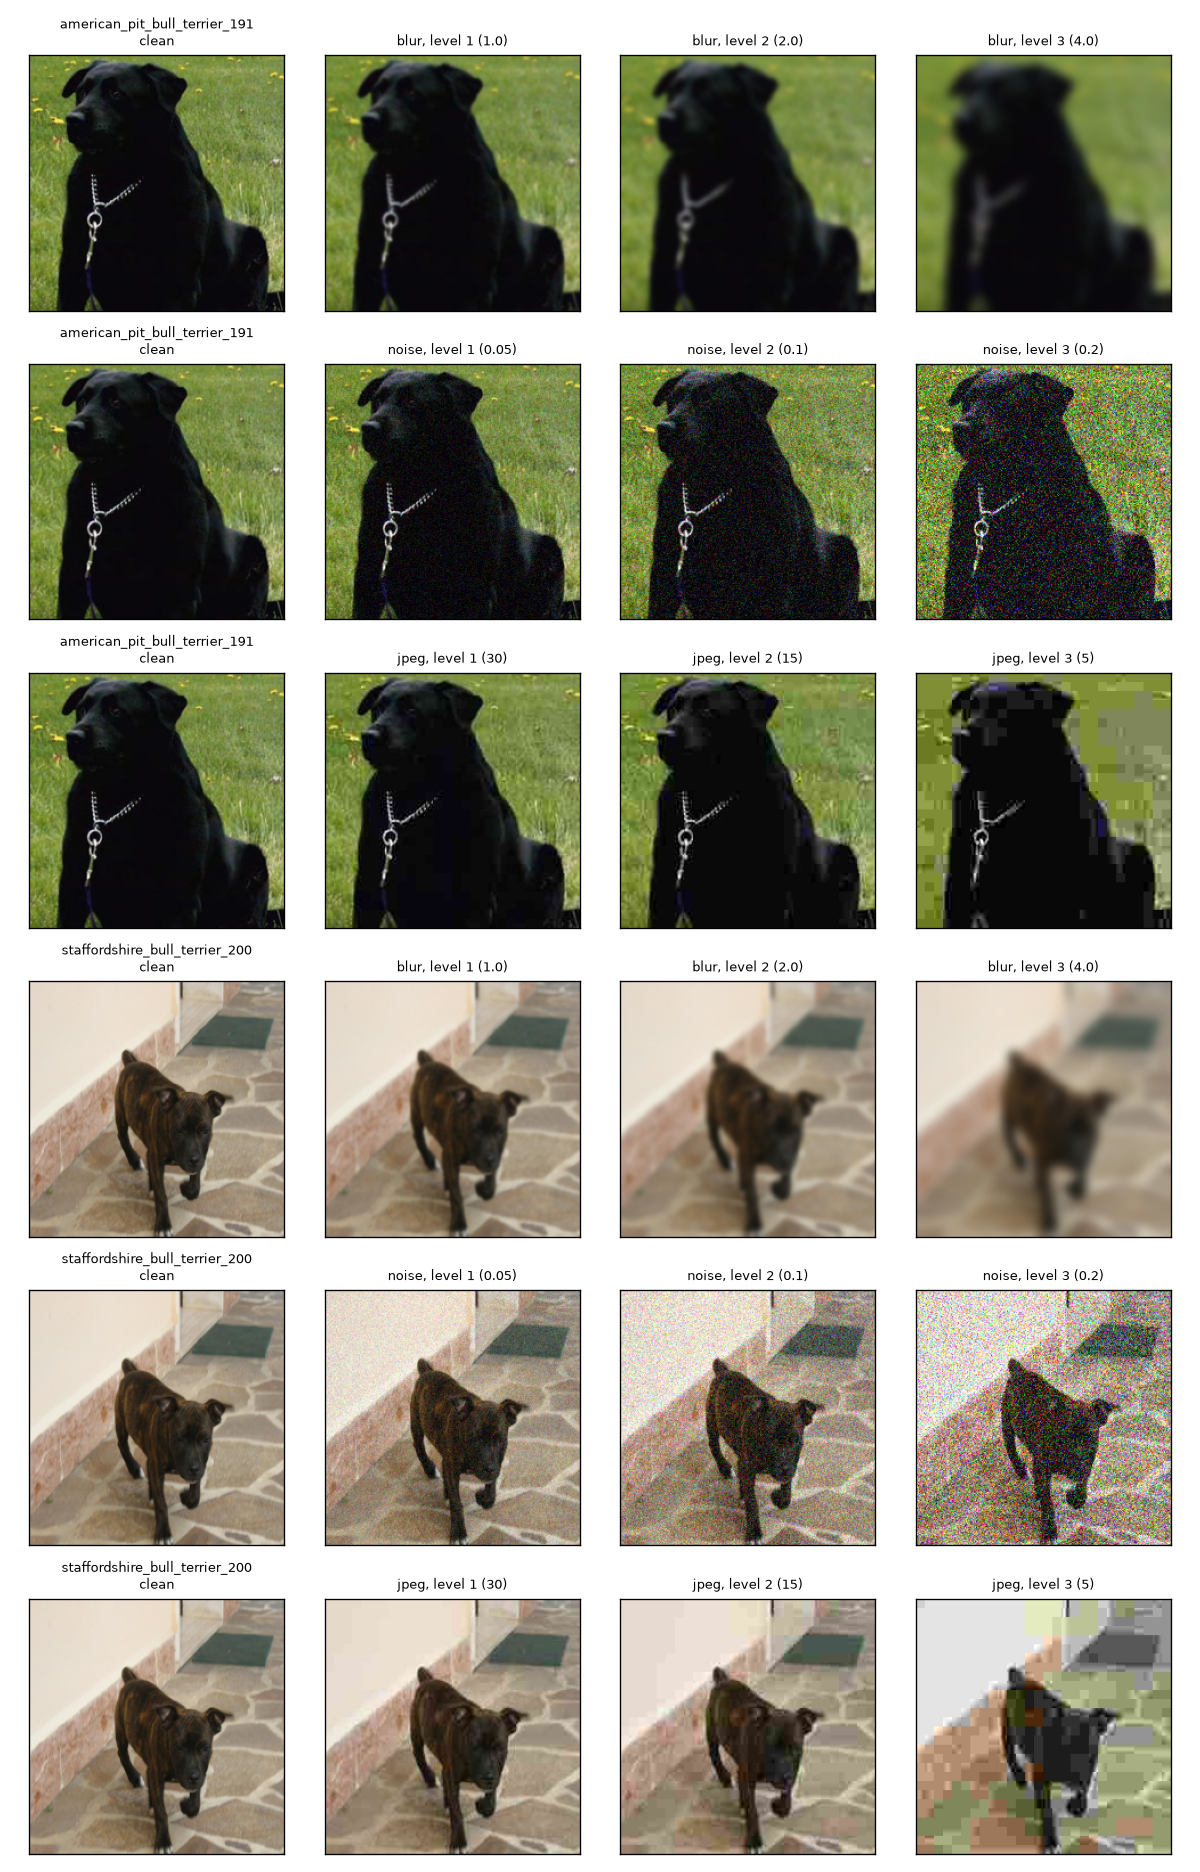
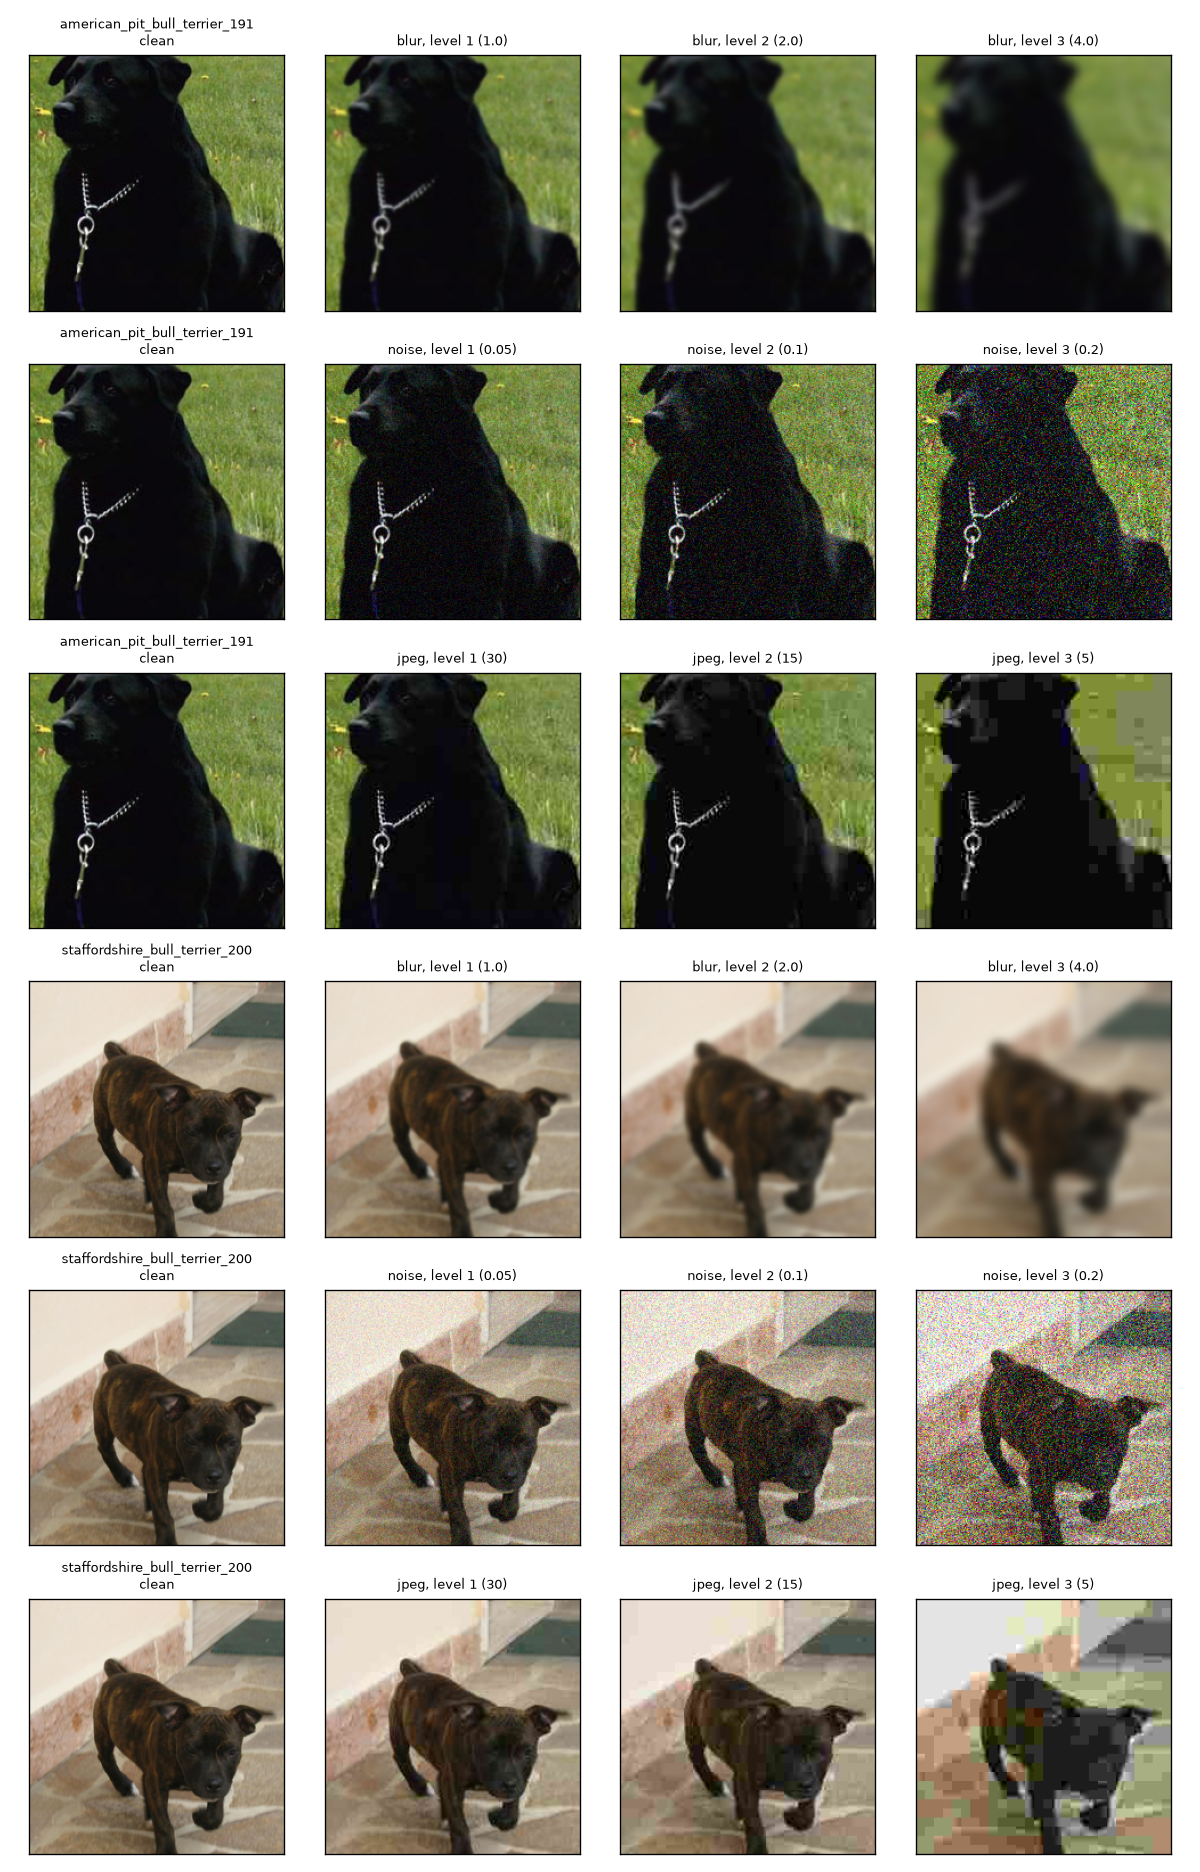
Add pretrained ResNet-18 + MLP head; crop instead of squash in load_image

diff --git a/src/pretrained.py b/src/pretrained.py
@@ -1,0 +1,330 @@
+"""Frozen pretrained ResNet-18 features + a small MLP classifier head.
+
+Step 1 - feature extraction (slow part, done once and cached):
+    Every image goes through ResNet-18 pretrained on ImageNet, with the final
+    classification layer removed. The output is a 512-number feature vector
+    per image. The ResNet weights are never changed ("frozen"). Features are
+    extracted for train, val, and the clean + 9 corrupted versions of test.
+
+Step 2 - MLP head (fast part):
+    A small neural network (512 -> hidden -> 37) is trained on the clean train
+    features with cross-entropy loss and the Adam optimiser. The settings are
+    chosen on the validation set, and the epoch with the best validation
+    accuracy is kept. This is repeated for several seeds.
+
+Step 3 - evaluation:
+    Each trained head is evaluated once on the clean test set and on all 9
+    corrupted test sets, so the drop in accuracy can be compared with the
+    other models.
+
+All images are loaded through corruptions.load_image(), so this model sees
+exactly the same clean and corrupted pixels as the other models.
+
+Usage (from the repo root):
+    python src/pretrained.py
+
+Output:
+    data/features/*.pt                       cached features (ignored by git)
+    results/pretrained/seed42/metrics.json   config, validation grid, test metrics
+    results/pretrained/seed42/predictions.csv  test predictions for every condition
+    results/pretrained/summary.json          mean and std over seeds, per condition
+"""
+
+import argparse
+import csv
+import json
+import random
+import time
+from pathlib import Path
+
+import numpy as np
+import torch
+import torch.nn as nn
+from sklearn.metrics import f1_score
+from torch.utils.data import DataLoader, Dataset
+from torchvision import models, transforms
+
+from corruptions import CONDITIONS, condition_name, load_image
+
+NUM_CLASSES = 37
+# ImageNet statistics: the pretrained ResNet expects inputs normalised this way
+MEAN = [0.485, 0.456, 0.406]
+STD = [0.229, 0.224, 0.225]
+
+
+def set_seed(seed):
+    random.seed(seed)
+    np.random.seed(seed)
+    torch.manual_seed(seed)
+
+
+def read_split(path):
+    with open(path) as f:
+        return list(csv.DictReader(f))
+
+
+# ---------------------------------------------------------------------------
+# Step 1: feature extraction
+# ---------------------------------------------------------------------------
+
+class PetsImages(Dataset):
+    """Returns (normalised 224x224 image tensor, label) for one condition."""
+
+    def __init__(self, rows, image_dir, kind, level):
+        self.rows, self.image_dir = rows, Path(image_dir)
+        self.kind, self.level = kind, level
+        self.to_tensor = transforms.Compose([
+            transforms.ToTensor(),
+            transforms.Normalize(MEAN, STD),
+        ])
+
+    def __len__(self):
+        return len(self.rows)
+
+    def __getitem__(self, i):
+        r = self.rows[i]
+        img = load_image(self.image_dir / f"{r['image']}.jpg", self.kind, self.level)
+        return self.to_tensor(img), int(r["label"])
+
+
+def build_encoder(device):
+    """ResNet-18 pretrained on ImageNet, with the last layer removed."""
+    encoder = models.resnet18(weights=models.ResNet18_Weights.IMAGENET1K_V1)
+    encoder.fc = nn.Identity()  # output the 512 features instead of 1000 classes
+    encoder.eval()              # frozen: batch norm uses its stored statistics
+    for p in encoder.parameters():
+        p.requires_grad = False
+    return encoder.to(device)
+
+
+@torch.no_grad()
+def extract(encoder, rows, image_dir, kind, level, device, args):
+    loader = DataLoader(PetsImages(rows, image_dir, kind, level),
+                        batch_size=args.batch_size, shuffle=False,
+                        num_workers=args.workers)
+    feats, labels = [], []
+    for x, y in loader:
+        feats.append(encoder(x.to(device)).cpu())
+        labels.append(y)
+    return torch.cat(feats), torch.cat(labels)
+
+
+def get_features(name, rows, kind, level, encoder_holder, device, args):
+    """Load cached features if they exist, otherwise extract and cache them."""
+    path = Path(args.feature_dir) / f"resnet18_{name}.pt"
+    if path.exists():
+        data = torch.load(path)
+        return data["x"], data["y"]
+    if encoder_holder["model"] is None:
+        encoder_holder["model"] = build_encoder(device)
+    image_dir = Path(args.data_root) / "oxford-iiit-pet" / "images"
+    start = time.time()
+    x, y = extract(encoder_holder["model"], rows, image_dir, kind, level, device, args)
+    path.parent.mkdir(parents=True, exist_ok=True)
+    torch.save({"x": x, "y": y}, path)
+    print(f"  extracted {name:14s} {len(y):5d} images in {time.time() - start:6.1f} s")
+    return x, y
+
+
+# ---------------------------------------------------------------------------
+# Step 2: MLP head
+# ---------------------------------------------------------------------------
+
+class MLPHead(nn.Module):
+    """512 features -> hidden layer with ReLU and dropout -> 37 class scores."""
+
+    def __init__(self, in_dim, hidden, dropout):
+        super().__init__()
+        self.net = nn.Sequential(
+            nn.Linear(in_dim, hidden),
+            nn.ReLU(),
+            nn.Dropout(dropout),
+            nn.Linear(hidden, NUM_CLASSES),
+        )
+
+    def forward(self, x):
+        return self.net(x)  # raw scores (logits); softmax is inside the loss
+
+
+@torch.no_grad()
+def predict(model, x):
+    model.eval()
+    return model(x).argmax(1)
+
+
+def train_head(x_tr, y_tr, x_va, y_va, hidden, weight_decay, seed, args):
+    """Train one head; return the weights from the best validation epoch."""
+    set_seed(seed)
+    model = MLPHead(x_tr.shape[1], hidden, args.dropout)
+    optimizer = torch.optim.Adam(model.parameters(), lr=args.lr,
+                                 weight_decay=weight_decay)
+    loss_fn = nn.CrossEntropyLoss()
+    g = torch.Generator().manual_seed(seed)
+
+    history, best_val, best_epoch, best_state = [], -1.0, 0, None
+    for epoch in range(1, args.epochs + 1):
+        model.train()
+        order = torch.randperm(len(y_tr), generator=g)
+        total_loss = 0.0
+        for i in range(0, len(order), args.head_batch_size):
+            idx = order[i:i + args.head_batch_size]
+            loss = loss_fn(model(x_tr[idx]), y_tr[idx])
+            optimizer.zero_grad()
+            loss.backward()
+            optimizer.step()
+            total_loss += loss.item() * len(idx)
+        train_acc = float((predict(model, x_tr) == y_tr).float().mean())
+        val_acc = float((predict(model, x_va) == y_va).float().mean())
+        history.append({"epoch": epoch, "train_loss": total_loss / len(y_tr),
+                        "train_acc": train_acc, "val_acc": val_acc})
+        if val_acc > best_val:  # keep the weights from the best validation epoch
+            best_val, best_epoch = val_acc, epoch
+            best_state = {k: v.clone() for k, v in model.state_dict().items()}
+
+    model.load_state_dict(best_state)
+    return model, best_val, best_epoch, history
+
+
+# ---------------------------------------------------------------------------
+# Main
+# ---------------------------------------------------------------------------
+
+def main():
+    parser = argparse.ArgumentParser()
+    parser.add_argument("--data-root", default="data")
+    parser.add_argument("--splits", default="splits")
+    parser.add_argument("--feature-dir", default="data/features")
+    parser.add_argument("--batch-size", type=int, default=64, help="for feature extraction")
+    parser.add_argument("--workers", type=int, default=2)
+    parser.add_argument("--hidden", type=int, nargs="+", default=[256, 512])
+    parser.add_argument("--weight-decay", type=float, nargs="+", default=[1e-4, 1e-3])
+    parser.add_argument("--dropout", type=float, default=0.3)
+    parser.add_argument("--lr", type=float, default=1e-3)
+    parser.add_argument("--epochs", type=int, default=100)
+    parser.add_argument("--head-batch-size", type=int, default=128)
+    parser.add_argument("--seeds", type=int, nargs="+", default=[42, 43, 44])
+    parser.add_argument("--out-dir", default="results/pretrained")
+    args = parser.parse_args()
+
+    device = torch.device("cuda" if torch.cuda.is_available() else "cpu")
+    device_name = torch.cuda.get_device_name(0) if device.type == "cuda" else "CPU"
+    print(f"Device: {device_name}")
+    splits = Path(args.splits)
+    rows = {s: read_split(splits / f"{s}.csv") for s in ("train", "val", "test")}
+
+    # --- Step 1: features (cached after the first run) ---
+    print("Feature extraction (cached files are reused):")
+    start = time.time()
+    holder = {"model": None}
+    x_tr, y_tr = get_features("train", rows["train"], "clean", 0, holder, device, args)
+    x_va, y_va = get_features("val", rows["val"], "clean", 0, holder, device, args)
+    test = {}
+    for kind, level in CONDITIONS:
+        name = condition_name(kind, level)
+        test[name] = get_features(f"test_{name}", rows["test"], kind, level,
+                                  holder, device, args)
+    extract_minutes = (time.time() - start) / 60
+
+    # Standardise features with statistics from the training set only
+    mean, std = x_tr.mean(0), x_tr.std(0) + 1e-6
+    x_tr, x_va = (x_tr - mean) / std, (x_va - mean) / std
+    test = {k: ((x - mean) / std, y) for k, (x, y) in test.items()}
+
+    # --- Step 2a: choose hidden size and weight decay on validation ---
+    print("\nValidation grid (seed {}):".format(args.seeds[0]))
+    grid, best = [], None
+    for hidden in args.hidden:
+        for wd in args.weight_decay:
+            _, val_acc, epoch, _ = train_head(x_tr, y_tr, x_va, y_va, hidden, wd,
+                                              args.seeds[0], args)
+            grid.append({"hidden": hidden, "weight_decay": wd,
+                         "val_acc": val_acc, "best_epoch": epoch})
+            print(f"  hidden={hidden:4d}  weight_decay={wd:<7}  "
+                  f"val_acc={val_acc:.4f}  (best epoch {epoch})")
+            if best is None or val_acc > best["val_acc"]:
+                best = grid[-1]
+    print(f"Selected: hidden={best['hidden']}, weight_decay={best['weight_decay']}")
+
+    # --- Step 2b + 3: train one head per seed, evaluate on every test condition ---
+    breeds = {int(r["label"]): r["breed"] for r in rows["test"]}
+    per_seed = {}
+    for seed in args.seeds:
+        start = time.time()
+        model, val_acc, best_epoch, history = train_head(
+            x_tr, y_tr, x_va, y_va, best["hidden"], best["weight_decay"], seed, args)
+        train_seconds = time.time() - start
+
+        results, all_preds = {}, {}
+        for name, (x, y) in test.items():
+            pred = predict(model, x)
+            y_np, p_np = y.numpy(), pred.numpy()
+            results[name] = {
+                "accuracy": float((p_np == y_np).mean()),
+                "macro_f1": float(f1_score(y_np, p_np, average="macro")),
+                "per_class_accuracy": {breeds[c]: float((p_np[y_np == c] == c).mean())
+                                       for c in sorted(breeds)},
+            }
+            all_preds[name] = p_np
+        clean_acc = results["clean"]["accuracy"]
+        for name in results:
+            acc = results[name]["accuracy"]
+            results[name]["absolute_drop"] = clean_acc - acc
+            results[name]["relative_drop"] = (clean_acc - acc) / clean_acc
+
+        print(f"\nSeed {seed}: best epoch {best_epoch}, val_acc={val_acc:.4f}")
+        for name in test:
+            r = results[name]
+            print(f"  {name:8s} acc={r['accuracy']:.4f}  "
+                  f"relative drop={r['relative_drop']:6.1%}")
+
+        out = Path(args.out_dir) / f"seed{seed}"
+        out.mkdir(parents=True, exist_ok=True)
+        with open(out / "history.csv", "w", newline="") as f:
+            writer = csv.DictWriter(f, fieldnames=history[0].keys())
+            writer.writeheader()
+            writer.writerows(history)
+        with open(out / "metrics.json", "w") as f:
+            json.dump({
+                "config": {**vars(args), "seed": seed},
+                "device": device_name,
+                "feature_extraction_minutes": round(extract_minutes, 1),
+                "head_train_seconds": round(train_seconds, 1),
+                "validation_grid": grid,
+                "selected": {"hidden": best["hidden"],
+                             "weight_decay": best["weight_decay"]},
+                "best_epoch": best_epoch,
+                "best_val_acc": val_acc,
+                "test": {"accuracy": results["clean"]["accuracy"],
+                         "macro_f1": results["clean"]["macro_f1"]},
+                "test_conditions": results,
+            }, f, indent=2)
+        with open(out / "predictions.csv", "w", newline="") as f:
+            writer = csv.writer(f)
+            writer.writerow(["condition", "image", "label", "pred", "correct"])
+            for name, p_np in all_preds.items():
+                for r, p in zip(rows["test"], p_np):
+                    writer.writerow([name, r["image"], r["label"], int(p),
+                                     int(r["label"]) == int(p)])
+        per_seed[seed] = results
+
+    # --- Summary over seeds: mean and standard deviation per condition ---
+    summary = {}
+    for name in test:
+        accs = [per_seed[s][name]["accuracy"] for s in args.seeds]
+        rel = [per_seed[s][name]["relative_drop"] for s in args.seeds]
+        summary[name] = {"accuracy_mean": float(np.mean(accs)),
+                         "accuracy_std": float(np.std(accs)),
+                         "relative_drop_mean": float(np.mean(rel)),
+                         "relative_drop_std": float(np.std(rel))}
+    with open(Path(args.out_dir) / "summary.json", "w") as f:
+        json.dump({"seeds": args.seeds, "conditions": summary}, f, indent=2)
+
+    print(f"\nMean over seeds {args.seeds}:")
+    for name, s in summary.items():
+        print(f"  {name:8s} acc={s['accuracy_mean']:.4f} +/- {s['accuracy_std']:.4f}  "
+              f"relative drop={s['relative_drop_mean']:6.1%}")
+    print(f"Saved results to {args.out_dir}/")
+
+
+if __name__ == "__main__":  # required on Windows when num_workers > 0
+    main()

diff --git a/src/corruptions.py b/src/corruptions.py
@@ -3,7 +3,8 @@
 Every model loads its images through `load_image()`, so the baseline, the CNN
 and the pretrained model all see exactly the same (corrupted) pixels:
 
-    original image -> resize to 224x224 -> corruption -> (model's own resizing)
+    original image -> resize + centre crop to 224x224 -> corruption
+                   -> (model's own resizing, e.g. 32x32 or 128x128)
 
 Corruptions are applied at 224x224 *before* any model-specific downsizing.
 This matters because shrinking an image (e.g. to 32x32 for the baseline)
@@ -33,6 +34,7 @@ from pathlib import Path
 
 import numpy as np
 from PIL import Image, ImageFilter
+from torchvision.transforms import functional as TF
 
 BASE_SIZE = 224   # every image is resized to this before corruption
 NOISE_SEED = 42   # base seed for the Gaussian noise
@@ -92,15 +94,28 @@ def corrupt(img, kind, level, image_name=""):
     raise ValueError(f"Unknown corruption: {kind}")
 
 
+def resize_and_crop(img, size=BASE_SIZE):
+    """Resize the shorter side to 256 and take the central 224x224 crop.
+
+    This keeps the animal's proportions (no squashing) and is the standard
+    evaluation preprocessing for ImageNet models such as ResNet-18. It uses the
+    same ratio (1.14) as the evaluation transform in train_cnn.py, so the CNN
+    sees images framed the same way as during its validation.
+    """
+    img = TF.resize(img, int(round(size * 256 / 224)),
+                    interpolation=TF.InterpolationMode.BILINEAR)
+    return TF.center_crop(img, size)
+
+
 def load_image(path, kind="clean", level=0):
-    """Load an image, resize to 224x224 and apply a corruption.
+    """Load an image, resize and crop to 224x224, and apply a corruption.
 
     This is the single entry point all models should use, so that clean and
     corrupted images go through exactly the same steps.
     """
     path = Path(path)
     img = Image.open(path).convert("RGB")
-    img = img.resize((BASE_SIZE, BASE_SIZE), Image.BILINEAR)
+    img = resize_and_crop(img)
     return corrupt(img, kind, level, image_name=path.stem)
 
 
